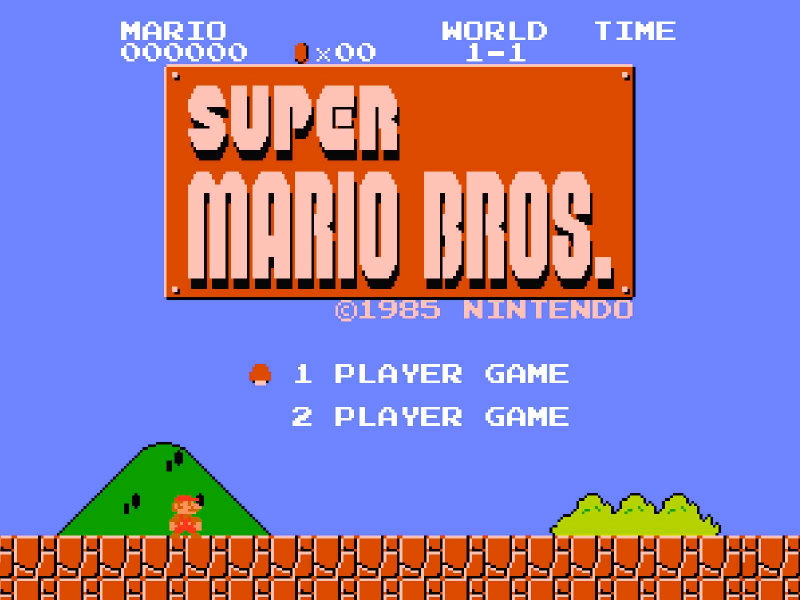
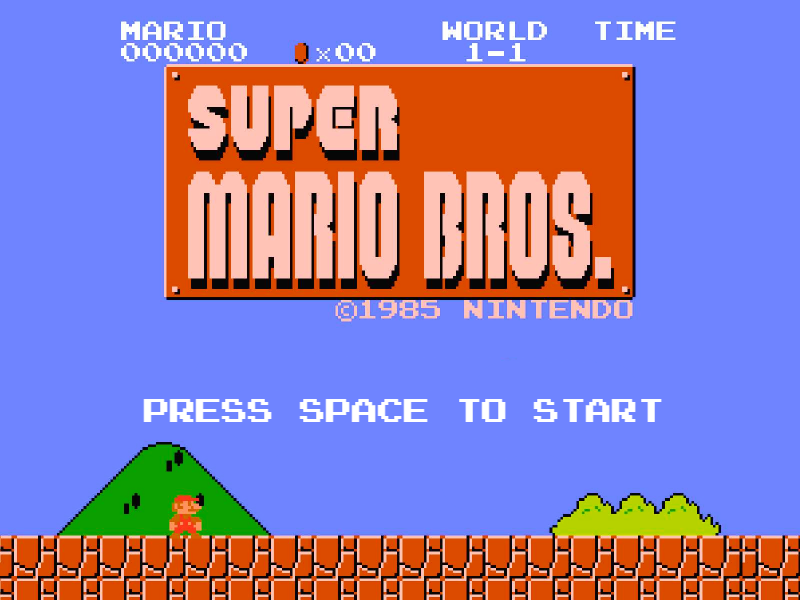
Update sMainState

Changed region(s): [[0.1562, 0.6, 0.8438, 0.72]]

diff --git a/SuperMarioBros/sMainState.py b/SuperMarioBros/sMainState.py
@@ -1,0 +1,92 @@
+import framework
+from pico2d import *
+import cMario
+import cGoomba
+
+name = "MainState"
+background = None
+mario = None
+goomba = None
+boundingBox = True
+
+
+def enter():
+    global background, mario, goomba
+    background = load_image('Image/background2.png')
+    mario = cMario.Mario()
+    goomba = cGoomba.Goomba()
+
+
+def exit():
+    global background, mario, goomba
+    del background
+    del mario
+    del goomba
+
+
+def update():
+    global mario, goomba
+    mario.update()
+    goomba.update()
+
+    if goomba.state == 0 and not mario.invincibility:
+        if check_collision(mario, goomba):
+            if mario.yPos > goomba.yPos:
+                goomba.state = 1
+            else:
+                if mario.trans == 2:
+                    mario.trans = 1
+                    mario.invincibility = True
+                elif mario.trans == 1:
+                    mario.trans = 0
+                    mario.invincibility = True
+                elif mario.trans == 0:
+                    # TODO: Game Over
+                    pass
+
+
+def draw():
+    global background, mario, goomba
+    global boundingBox
+    clear_canvas()
+    background.draw(800 / 2, 600 / 2)
+    mario.draw()
+    goomba.draw()
+
+    if boundingBox:
+        draw_rectangle(*mario.get_bb())
+        draw_rectangle(*goomba.get_bb())
+
+    update_canvas()
+
+
+def handle_events():
+    global boundingBox
+    events = get_events()
+    for event in events:
+        if event.type == SDL_QUIT:
+            framework.quit()
+        elif event.type == SDL_KEYDOWN:
+            if event.key == SDLK_ESCAPE:
+                framework.quit()
+            if event.key == SDLK_q:
+                boundingBox = not boundingBox
+    mario.input(events)
+
+
+def pause(): pass
+
+
+def resume(): pass
+
+
+def check_collision(a, b):
+    a1, a2, a3, a4 = a.get_bb()
+    b1, b2, b3, b4 = b.get_bb()
+
+    if a1 > b3 or a3 < b1:  # x축
+        return False
+    if a4 < b2 or a2 > b4:  # y축
+        return False
+    return True
+

diff --git a/SuperMarioBros/sTitleState.py b/SuperMarioBros/sTitleState.py
@@ -1,46 +1,45 @@
 import framework
 from pico2d import *
-
+import sMainState
 
 name = "TitleState"
-image = None
-logo_time = 0.0
+title = None
 
 
 def enter():
-    global image
-    image = load_image('Image/title.png')
+    global title
+    title = load_image('Image/title.png')
 
 
 def exit():
-    global image
-    del(image)
+    global title
+    del title
 
 
-def update():
-    global logo_time
-
-    if (logo_time > 1.0):
-        logo_time = 0
-        framework.quit()
-    delay(0.01)
-    logo_time += 0.01
+def update(): pass
 
 
 def draw():
-    global image
+    global title
     clear_canvas()
-    image.draw(800 / 2, 600 / 2)
+    title.draw(800 / 2, 600 / 2)
     update_canvas()
 
 
 def handle_events():
     events = get_events()
+    for event in events:
+        if event.type == SDL_QUIT:
+            framework.quit()
+        elif event.type == SDL_KEYDOWN:
+            if event.key == SDLK_ESCAPE:
+                framework.quit()
+            if event.key == SDLK_SPACE:
+                framework.change_state(sMainState)
 
 
 def pause(): pass
 
 
 def resume(): pass
-
 

diff --git a/SuperMarioBros/cGoomba.py b/SuperMarioBros/cGoomba.py
@@ -5,7 +5,7 @@ class Goomba:
     def __init__(self, x=700):
         self.image = load_image('Image/Goomba.png')
         self.xPos = x
-        self.yPos = 83 + 20
+        self.yPos = 83 + 16
         self.frame = 0
         self.state = 0  # IDLE, DIED
 
@@ -21,3 +21,4 @@ class Goomba:
         if self.state == 0:
             self.image.clip_draw(self.frame * 59, 0, 32, 32, self.xPos, self.yPos)
         # TODO: 밟힌 모습 1초간 draw
+
